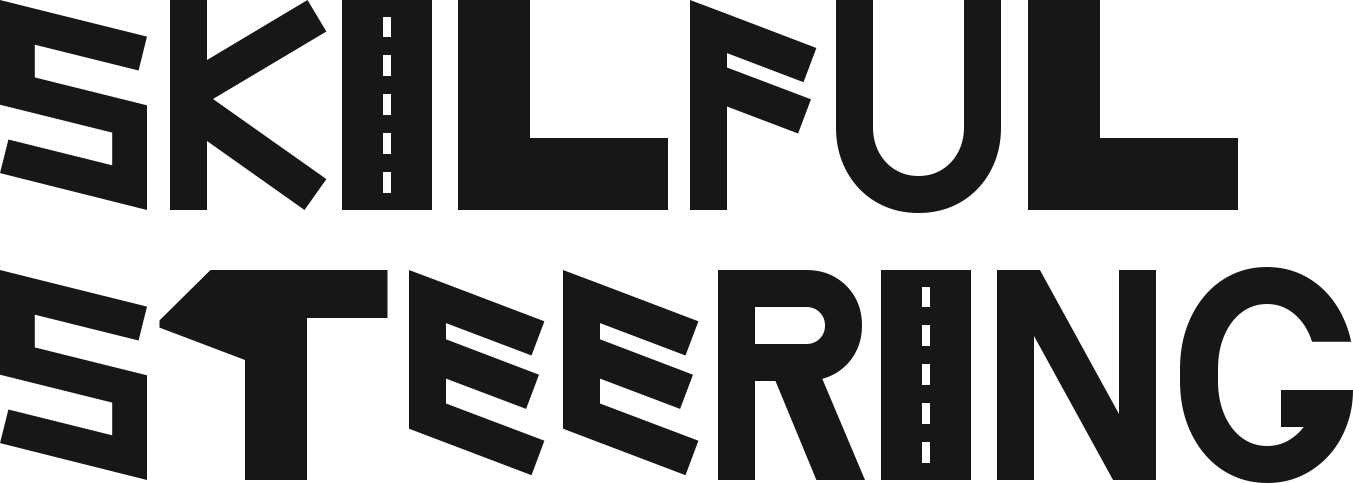
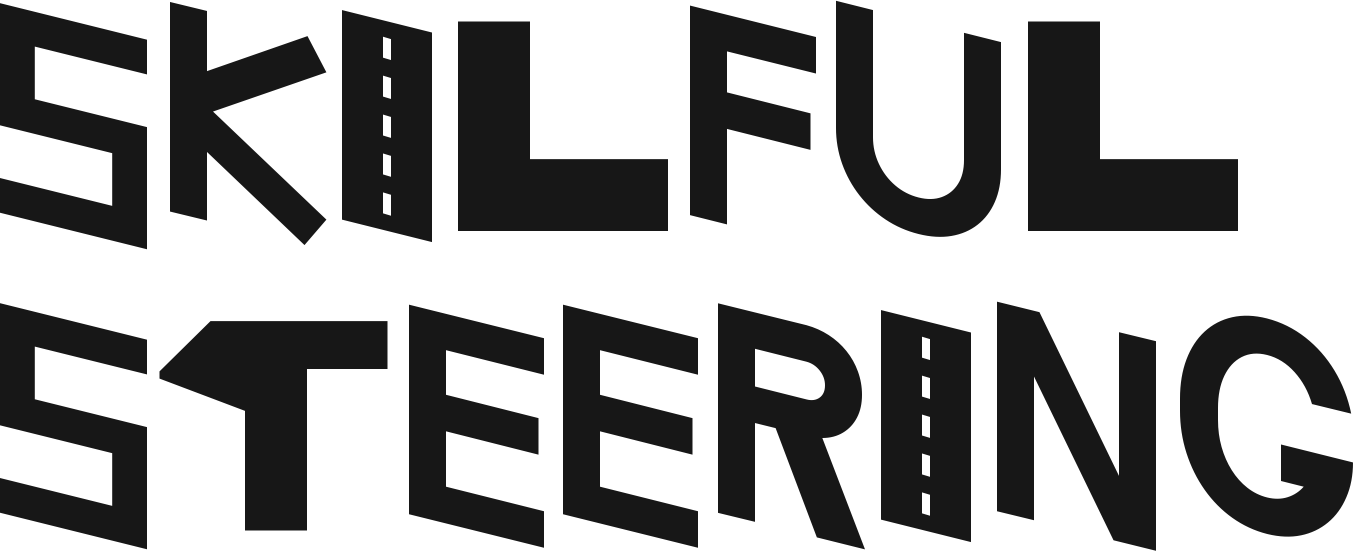
Slant on every letter

diff --git a/index.html b/index.html
@@ -130,7 +130,7 @@
     <div class="ht" aria-hidden="true"><i></i><i></i><i></i></div>
     <span class="label">Typeface</span>
     <img class="title" src="title.png" alt="Skilful Steering" width="1353" height="583">
-    <p>Road lettering drawn by hand, turned into a font. Junction-sign T, road I, learner-plate L.</p>
+    <p>Road lettering drawn by hand, turned into a font. Every letter leans like a car taking a bend, with a junction-sign T, a road I and a learner-plate L.</p>
   </section>
 
   <section class="plate lock" id="lock">
